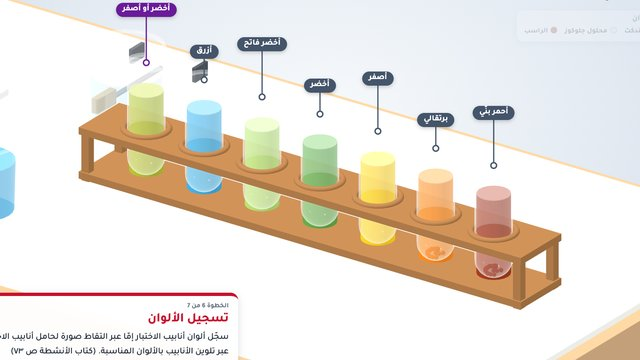
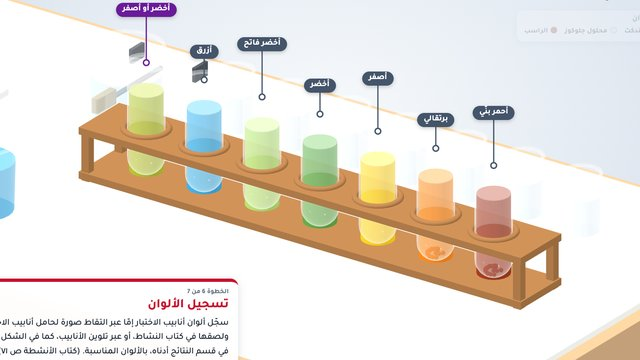
fix(diorama): إصلاحات المراجعة — دخول الأنابيب من فوَّهة الكأس، أوعية الجلوكوز ومصدر ملء الماصَّة، استمراريَّة لون الأنبوبة 5

Changed region(s): [[0.0, 0.7639, 0.375, 1.0], [0.7188, 0.3667, 0.75, 0.3972]]

diff --git a/diorama/benedict_lab.js b/diorama/benedict_lab.js
@@ -15,6 +15,10 @@
   const BATH_R = 1.35, BATH_H = 3.4, WATER_H = 2.4;       // الكأس والماء
   const BATH_SLOT = i => { const a = (i - 1) / 7 * 2 * Math.PI; return [BATH.x + 0.78 * Math.cos(a), BATH.z + 0.78 * Math.sin(a)]; };
   const BATH_Y = (BATH.y + 0.4 + TUBE_H / 2) - HOME_Y;    // إزاحة y للأنبوبة داخل الكأس (قاعها فوق قاع الكأس بـ 0.4)
+  const BATH_TOP = BATH.y + BATH_H;                        // حافَّة الكأس
+  const LIFT_Y = BATH_TOP - HOME_Y + TUBE_H / 2 + 0.15;   // إزاحة y التي يكون عندها قاع الأنبوبة فوق الحافَّة (للدخول والخروج من الفوَّهة)
+  const STOCK = i => V(HOME_X(i), TABLE_Y, -2.4);         // أوعية محاليل الجلوكوز السبعة خلف الحامل
+  const STOCK_R = 0.3, STOCK_H = 1.0;
   const BEN = V(-2.6, TABLE_Y, 2.3), WASH = V(-2.6, TABLE_Y, -1.6);   // قاعدتا كأس بندكت 50 mL وكأس الغسل
   const BEN_R = 0.55, BEN_H = 1.2, WASH_R = 0.6, WASH_H = 1.3;
   const PIP_Y = HOME_Y + TUBE_H / 2 + 0.55;               // ارتفاع طرف الماصَّة فوق الأنابيب
@@ -34,11 +38,14 @@
     LADDER, FINAL, MAXSTEP, TUBE_H,
     colorFor(i, c, b) {
       if (b <= 0) return new THREE.Color(GLUCOSE);
+      const fin = i === 7 ? new THREE.Color('#f2c414').lerp(new THREE.Color('#4e9a3c'), 0.5) : new THREE.Color(FINAL[i - 1]);
       let col;
-      if (c >= 1) col = i === 7 ? new THREE.Color('#f2c414').lerp(new THREE.Color('#4e9a3c'), 0.5) : new THREE.Color(FINAL[i - 1]);
+      if (c >= 1) col = fin;
       else {
         const pos = Math.max(0, c) * MAXSTEP[i - 1], k = Math.min(LADDER.length - 2, Math.floor(pos)), u = pos - k;
         col = new THREE.Color(LADDER[k]).lerp(new THREE.Color(LADDER[k + 1]), u);
+        const w = Math.min(1, Math.max(0, (c - 0.7) / 0.3));          // الثلث الأخير: مزج متَّصل نحو لون الجدول ٢-٢ (لا قفزة)
+        col.lerp(fin, w);
       }
       return b >= 1 ? col : new THREE.Color(GLUCOSE).lerp(col, b);
     },
@@ -50,25 +57,25 @@
   const tubeKeys = (k, val) => { const o = {}; for (let i = 1; i <= 7; i++) o[k + i] = val; return o; };
   // الخطوة 2: الماصَّة تنقل 9 mL إلى كلِّ أنبوبة وتُغسل بين كلِّ نقلين
   const seqGlucose = () => {
-    const q = [[{ '!ph': 1, '!px': WASH.x, '!py': PIP_Y, '!pz': WASH.z, '!pf': 0 }, 0]];
+    const q = [[{ '!ph': 1, '!pc': 0, '!px': WASH.x, '!py': PIP_Y, '!pz': WASH.z, '!pf': 0 }, 0]];
     for (let i = 1; i <= 7; i++) {
-      q.push([{ pf: 1 }, 250], [{ px: HOME_X(i), pz: 0 }, 350], [{ ['v' + i]: 9, pf: 0 }, 600]);
+      const st = STOCK(i);
+      q.push([{ px: st.x, pz: st.z }, 350], [{ py: TABLE_Y + 0.45 }, 150], [{ pf: 1 }, 220], [{ py: PIP_Y }, 150], [{ px: HOME_X(i), pz: 0 }, 350], [{ ['v' + i]: 9, pf: 0 }, 600]);
       if (i < 7) q.push([{ px: WASH.x, pz: WASH.z }, 350], [{ py: PIP_FILL_Y, pf: 0.4 }, 180], [{ py: PIP_Y, pf: 0 }, 180]);
     }
     return q;
   };
   // الخطوة 3: 5 mL من محلول بندكت إلى كلِّ أنبوبة
   const seqBenedict = () => {
-    const q = [];
+    const q = [[{ '!pc': 1 }, 0]];
     for (let i = 1; i <= 7; i++) q.push([{ px: BEN.x, pz: BEN.z, py: PIP_FILL_Y }, 350], [{ pf: 1 }, 200], [{ py: PIP_Y }, 150], [{ px: HOME_X(i), pz: 0 }, 350], [{ ['v' + i]: 14, ['b' + i]: 1, pf: 0 }, 550]);
     q.push([{ px: WASH.x, pz: WASH.z }, 300], [{ '!ph': 0 }, 0]);
     return q;
   };
   // الخطوة 4: الأنابيب إلى الحمَّام ثمَّ خمس دقائق تسخين
   const seqHeat = () => {
-    const to = {}; for (let i = 1; i <= 7; i++) { const [bx, bz] = BATH_SLOT(i); to['x' + i] = bx - HOME_X(i); to['z' + i] = bz; to['y' + i] = BATH_Y + 1.2; }
-    const down = {}; for (let i = 1; i <= 7; i++) down['y' + i] = BATH_Y;
-    return [[to, 1400], [down, 700], [Object.assign({ t: 5 }, tubeKeys('c', 1)), 4500]];
+    const to = {}; for (let i = 1; i <= 7; i++) { const [bx, bz] = BATH_SLOT(i); to['x' + i] = bx - HOME_X(i); to['z' + i] = bz; }
+    return [[tubeKeys('y', LIFT_Y), 900], [to, 1200], [tubeKeys('y', BATH_Y), 800], [Object.assign({ t: 5 }, tubeKeys('c', 1)), 4500]];
   };
   // الخطوة 5: إطفاء الموقد وإخراج الأنابيب بالماسك إلى الحامل بالترتيب
   const seqOut = () => {
@@ -76,16 +83,16 @@
     for (let i = 1; i <= 7; i++) {
       const [bx, bz] = BATH_SLOT(i);
       q.push([{ hx: bx, hz: bz, hy: HOME_Y + BATH_Y + 0.5, hg: 0 }, 260], [{ hg: 1 }, 100],
-             [{ ['y' + i]: BATH_Y + 1.4, hy: HOME_Y + BATH_Y + 1.9 }, 260],
+             [{ ['y' + i]: LIFT_Y, hy: HOME_Y + LIFT_Y + 0.5 }, 320],
              [{ ['x' + i]: 0, ['z' + i]: 0, hx: HOME_X(i), hz: 0 }, 380],
-             [{ ['y' + i]: 0, hy: HOME_Y + 0.5 }, 220], [{ hg: 0 }, 80]);
+             [{ ['y' + i]: 0, hy: HOME_Y + 0.5 }, 260], [{ hg: 0 }, 80]);
     }
     q.push([{ hx: HOLDER_REST.x, hy: HOLDER_REST.y, hz: HOLDER_REST.z }, 400]);
     return q;
   };
 
   const BASE = Object.assign(
-    { flame: 0, bubbles: 0, t: 0, u: 0, fo: 0, zoom: 1, ph: 0, px: WASH.x, py: PIP_Y, pz: WASH.z, pf: 0, hx: HOLDER_REST.x, hy: HOLDER_REST.y, hz: HOLDER_REST.z, hg: 0 },
+    { flame: 0, bubbles: 0, t: 0, u: 0, fo: 0, zoom: 1, ph: 0, pc: 0, px: WASH.x, py: PIP_Y, pz: WASH.z, pf: 0, hx: HOLDER_REST.x, hy: HOLDER_REST.y, hz: HOLDER_REST.z, hg: 0 },
     tubeKeys('v', 0), tubeKeys('b', 0), tubeKeys('c', 0), tubeKeys('y', 0), tubeKeys('x', 0), tubeKeys('z', 0));
 
   // ── الخامات والأدوات ─────────────────────────────────────────────────────
@@ -170,6 +177,14 @@
     const benLiq = new THREE.Mesh(new THREE.CylinderGeometry(BEN_R * 0.94, BEN_R * 0.9, BEN_H * 0.7, 24), matBenedict); benLiq.position.set(BEN.x, BEN.y + 0.03 + BEN_H * 0.35, BEN.z); scene.add(benLiq);
     parts.washBeaker = beaker(WASH_R, WASH_H, scene); parts.washBeaker.position.copy(WASH);
     const washLiq = new THREE.Mesh(new THREE.CylinderGeometry(WASH_R * 0.94, WASH_R * 0.9, WASH_H * 0.65, 24), matWater); washLiq.position.set(WASH.x, WASH.y + 0.03 + WASH_H * 0.325, WASH.z); scene.add(washLiq);
+    // أوعية محاليل الجلوكوز السبعة (من قائمة المواد) خلف الحامل: كأس صغير لكلِّ تركيز بسائل شفَّاف
+    parts.stock = [];
+    for (let i = 1; i <= 7; i++) {
+      const st = STOCK(i), g = beaker(STOCK_R, STOCK_H, scene); g.position.copy(st);
+      const liqM = new THREE.MeshStandardMaterial({ color: GLUCOSE, transparent: true, opacity: 0.5, roughness: 0.2, depthWrite: false }); liqM.color.convertSRGBToLinear();
+      const liq = new THREE.Mesh(new THREE.CylinderGeometry(STOCK_R * 0.94, STOCK_R * 0.9, STOCK_H * 0.6, 20), liqM); liq.position.set(st.x, st.y + 0.03 + STOCK_H * 0.3, st.z); scene.add(liq);
+      parts.stock.push(g);
+    }
     // حامل الأنابيب: لوحان خشبيَّان وقوائم وحلقات الثقوب
     const rack = new THREE.Group();
     const top = new THREE.Mesh(new THREE.BoxGeometry(8.4, 0.12, 1.1), matWood); top.position.set(HOME_X(4), 0.55, 0); rack.add(top);
@@ -195,7 +210,8 @@
     pip.add(put(new THREE.Mesh(new THREE.CylinderGeometry(0.07, 0.07, PIP_LEN, 12, 1, true), matGlass), [0, PIP_LEN / 2 + 0.15, 0]));
     pip.add(put(new THREE.Mesh(new THREE.ConeGeometry(0.07, 0.15, 12), matGlass), [0, 0.075, 0], [Math.PI, 0, 0]));
     pip.add(put(new THREE.Mesh(new THREE.SphereGeometry(0.22, 16, 12), matBulb), [0, PIP_LEN + 0.35, 0]));
-    const col = new THREE.Mesh(new THREE.CylinderGeometry(0.05, 0.05, 1, 10), matBenedict); col.geometry.translate(0, 0.5, 0); col.position.y = 0.15; col.scale.y = 0.001; pip.add(col);
+    const colM = new THREE.MeshStandardMaterial({ color: GLUCOSE, transparent: true, opacity: 0.85, roughness: 0.2, depthWrite: false }); colM.color.convertSRGBToLinear();
+    const col = new THREE.Mesh(new THREE.CylinderGeometry(0.05, 0.05, 1, 10), colM); col.geometry.translate(0, 0.5, 0); col.position.y = 0.15; col.scale.y = 0.001; pip.add(col);
     pip.userData.column = col; pip.visible = false; scene.add(pip); parts.pipette = pip;
     // ماسك أنبوبة الاختبار: قضيب أفقي وفكَّان؛ أصله عند الفكَّين
     const holder = new THREE.Group();
@@ -225,6 +241,7 @@
       t.ppt.forEach(p => { p.visible = c > 0.3; const { a, r, h: hh } = p.userData; p.position.set(r * Math.cos(a), LIQ_BASE + 0.04 + h * (0.5 * (1 - fall) + 0.06 * hh), r * Math.sin(a)); });
     });
     parts.pipette.visible = s.ph > 0; parts.pipette.position.set(s.px, s.py, s.pz); parts.pipette.userData.column.scale.y = Math.max(0.001, s.pf * 1.8);
+    parts.pipette.userData.column.material.color.set(s.pc >= 0.5 ? BENEDICT : GLUCOSE).convertSRGBToLinear();
     parts.holder.position.set(s.hx, s.hy, s.hz);
     const gap = s.hg >= 0.5 ? TUBE_R + 0.06 : TUBE_R + 0.3; parts.holder.userData.jaws[0].position.x = -gap; parts.holder.userData.jaws[1].position.x = gap;
     parts.burner.flameIn.scale.y = s.flame; parts.burner.flameOut.scale.y = s.flame; parts.burner.light.intensity = 0.6 * s.flame;
@@ -278,7 +295,7 @@
       { t: 'وسم الأنابيب وإضافة 9 mL من كلِّ محلول',
         p: 'اكتب المسميات على أنابيب الاختبار السبع بالتراكيز المختلفة لمحلول الجلوكوز 10%، 1%، 0.1%، 0.01%، 0.001%، 0.0001%، والمحلول المجهول. استخدم الماصّة لإضافة 9 mL من كل محلول جلوكوز إلى أنبوبة الاختبار المطابقة. تذكّر أن تغسل الماصّة بين كل عمليتَي نقل. (كتاب الأنشطة ص ٧١)',
         seq: seqGlucose(),
-        pills: concPills.concat([['ماصَّة ' + L('10 mL'), TEAL, s => V(s.px, s.py + PIP_LEN + 0.5, s.pz), -150, -30], ['كأس الغسل', BLU, () => V(WASH.x, WASH.y + WASH_H, WASH.z), -120, -40]]) },
+        pills: concPills.concat([['ماصَّة ' + L('10 mL'), TEAL, s => V(s.px, s.py + PIP_LEN + 0.5, s.pz), -150, -30], ['كأس الغسل', BLU, () => V(WASH.x, WASH.y + WASH_H, WASH.z), -120, -40], ['محاليل الجلوكوز', GRY, () => V(HOME_X(4), TABLE_Y + STOCK_H, -2.4), 0, -70]]) },
       { t: 'إضافة 5 mL من محلول بندكت',
         p: 'أضف 5 mL من محلول بندكت إلى كل من الأنابيب السبع. (كتاب الأنشطة ص ٧١)',
         seq: seqBenedict(),
@@ -301,7 +318,7 @@
         seq: [[{ u: 1 }, 1400], [{ zoom: 1.6 }, 700]],
         pills: [['المحلول المجهول: بين ' + L('0.1%') + ' و' + L('0.01%'), PUR, tubeTop(7), 0, -165], [L('0.1%'), GRY, tubeTop(3), 110, -50], [L('0.01%'), GRY, tubeTop(4), -110, -50]] },
     ],
-    parts, glassMat, isLow,
+    parts, glassMat, isLow, geom: { HOME_Y, TUBE_H, BATH_TOP, LIFT_Y },
     setup,
     rebuild(s, ctx) {},
     place, focus, idle,
